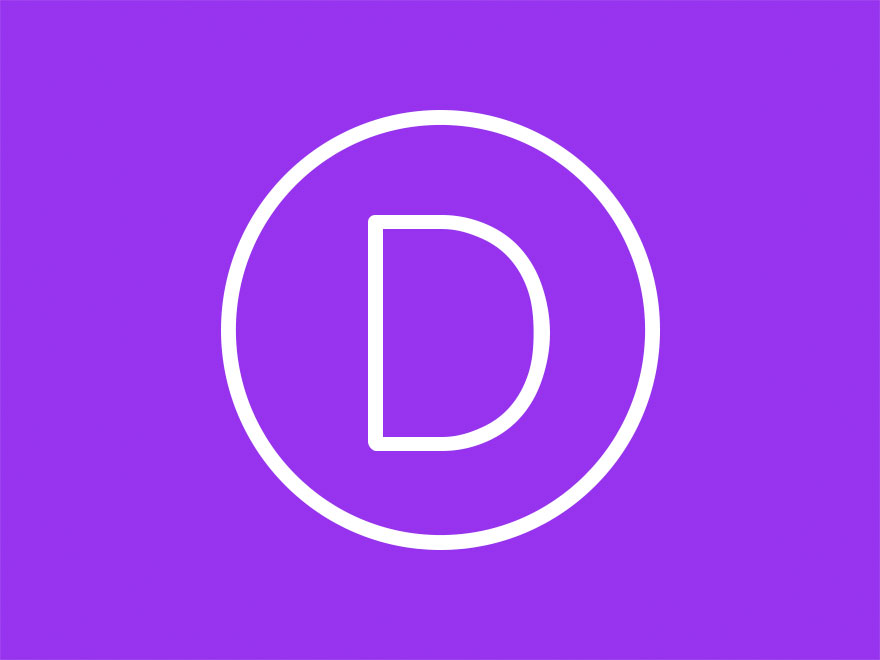
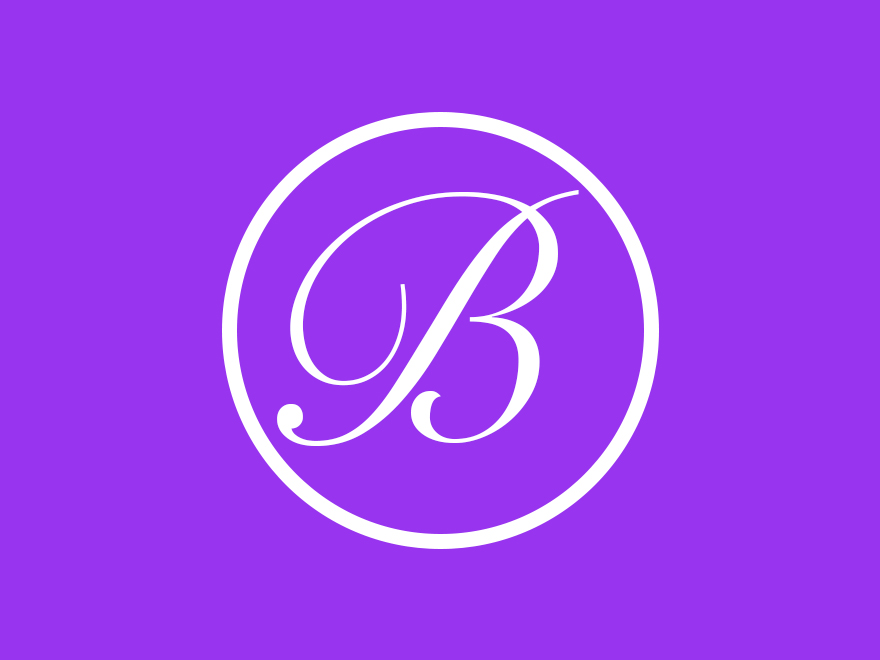
Edit Theme style.css + Update Theme screenshot.jpg

diff --git a/wp-content/themes/blu-1.0/style.css b/wp-content/themes/blu-1.0/style.css
@@ -1,13 +1,12 @@
 /*
-Theme Name: Divi
-Theme URI: http://www.elegantthemes.com/gallery/divi/
-Version: 3.0.4
-Description: Smart. Flexible. Beautiful. Divi is the most powerful theme in our collection.
-Author: Elegant Themes
-Author URI: http://www.elegantthemes.com
+Theme Name: Blu
+Theme URI: http://www.7pixelsgh.com/
+Version: 1.0
+Description: Smart. Flexible. Beautiful. Blu is the most powerful theme in our collection.
+Author: Laud Tetteh
+Author URI: http://www.7pixelsgh.com
 Tags: responsive-layout, one-column, two-columns, three-columns, four-columns, left-sidebar, right-sidebar, custom-background, custom-colors, featured-images, full-width-template, post-formats, rtl-language-support, theme-options, threaded-comments, translation-ready
 License: GNU General Public License v2
-License URI: http://www.gnu.org/licenses/gpl-2.0.html
 */
 /* Browser Reset */
 html,
